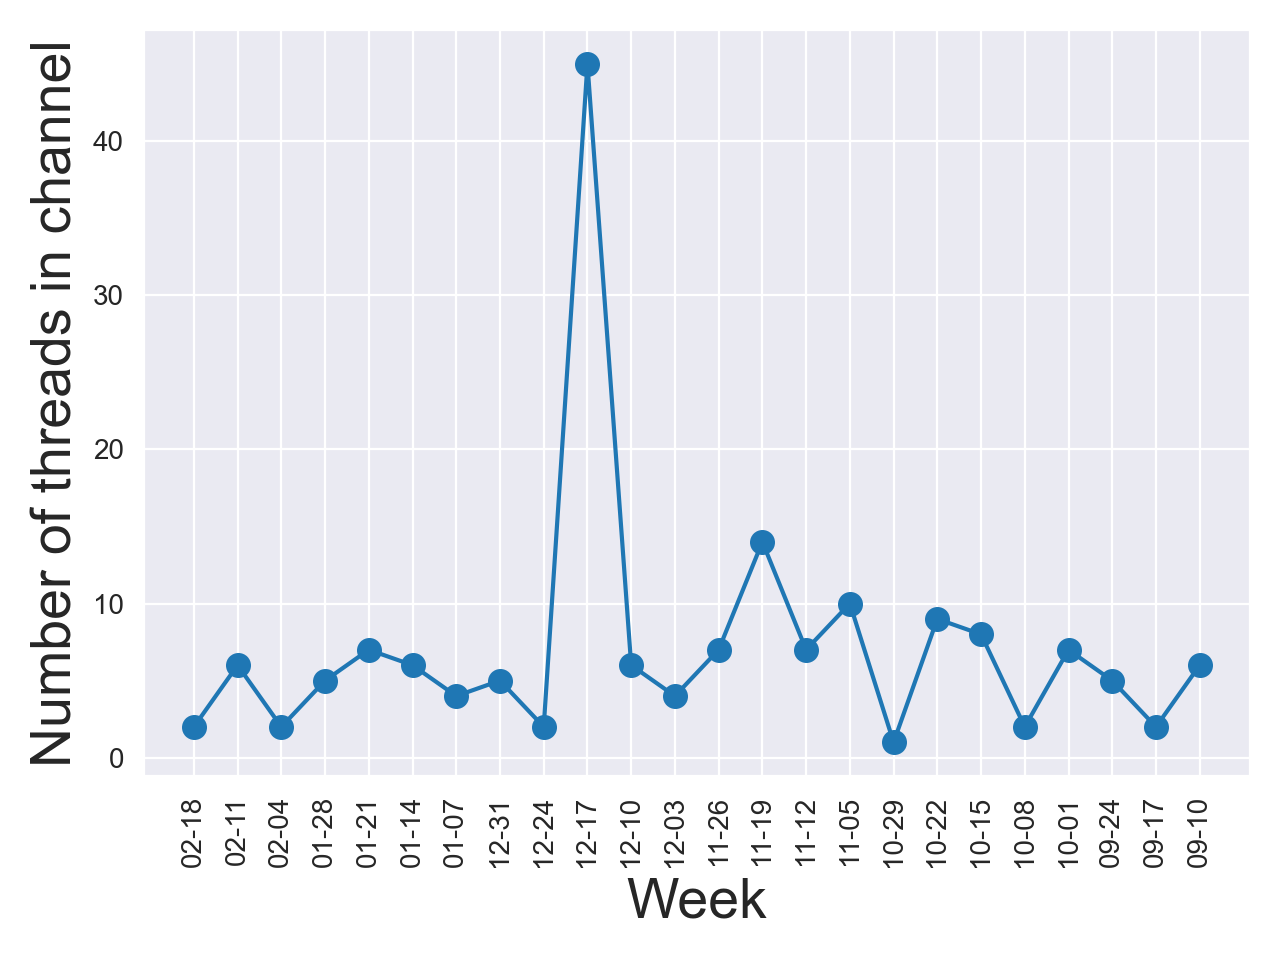
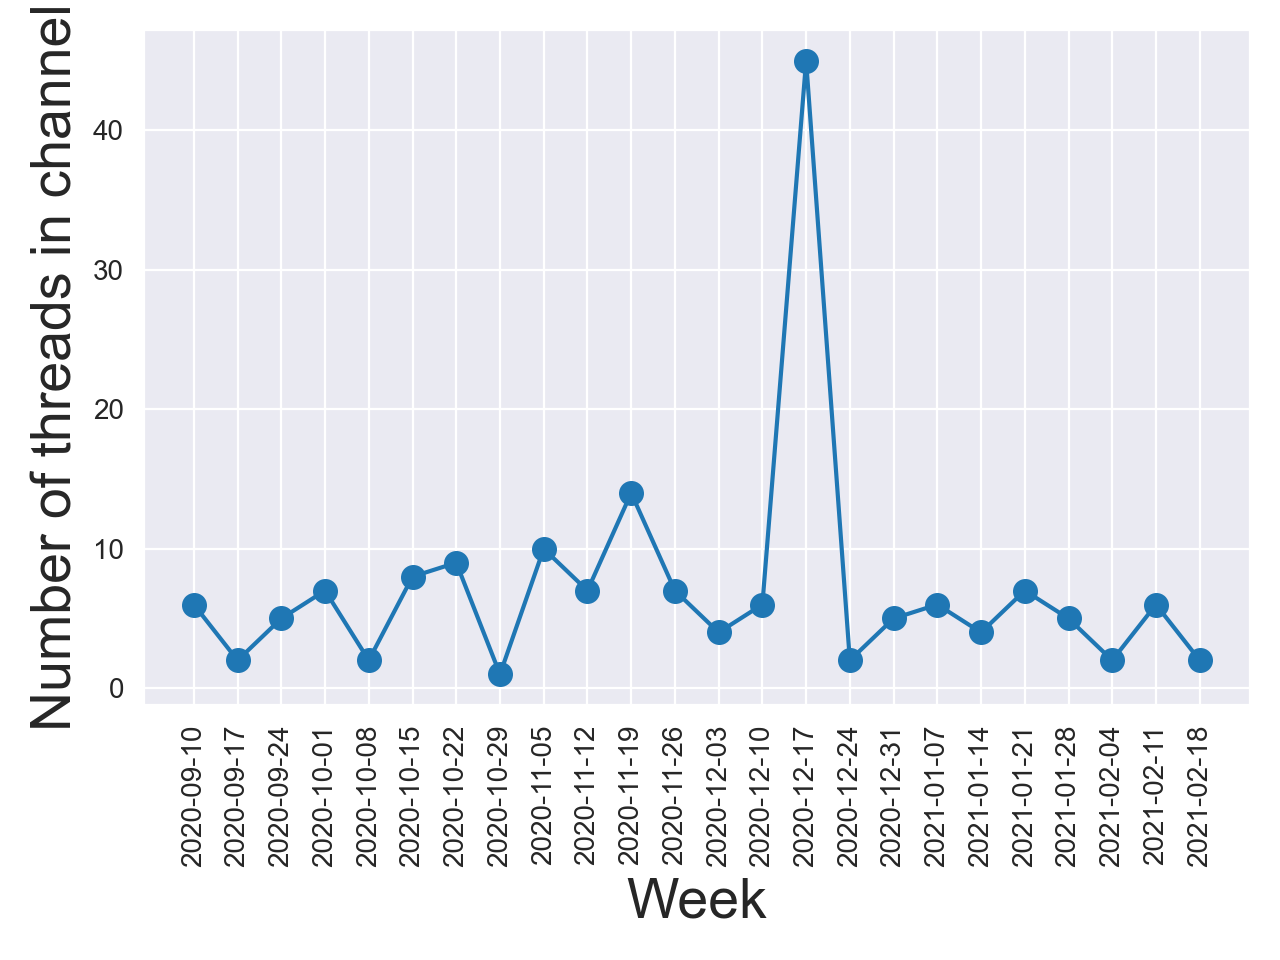
Fix label ordering

Changed region(s): [[0.125, 0.0312, 0.9375, 0.9062], [0.0, 0.0, 0.0938, 0.8125], [0.3125, 0.5625, 0.375, 0.6562]]

diff --git a/slack-analytics/get-history.py b/slack-analytics/get-history.py
@@ -99,6 +99,10 @@ def get_slack_history(auth_token, channel, num_historical_weeks, outfile="./out.
 
             print("{}: {}".format(oldest, len(messages)))
 
+            # Analyze outliers
+            #if len(messages) > 40:
+            #    pp.pprint(messages)
+
             # Advance the time barriers
             latest = oldest
             oldest = latest - seconds_in_a_week
@@ -108,20 +112,22 @@ def get_slack_history(auth_token, channel, num_historical_weeks, outfile="./out.
 # Plot Num Support Threads by Time
 def plot(csvname):
     xs = []
+    xlabels = []
     thread_counts = []
 
     with open(csvname, "r") as f:
         for line in f:
             vals = line.rstrip().split(",")
             unix_timestamp = float(vals[0])
-            x = datetime.utcfromtimestamp(unix_timestamp).strftime("%m-%d")
-            xs.append(x)
+            x = datetime.utcfromtimestamp(unix_timestamp).strftime("%Y-%m-%d")
+            xs.append(unix_timestamp)
+            xlabels.append(x)
             thread_counts.append(int(vals[1]))
 
     plt.plot(xs, thread_counts, marker="o", markersize=8)
     plt.xlabel("Week", fontsize=20)
     plt.ylabel("Number of threads in channel", fontsize=20)
-    plt.xticks(rotation = 90)
+    plt.xticks(xs, xlabels, rotation = 90)
     plt.tick_params(axis='y', which='major', labelsize=10)
     plt.tick_params(axis='y', which='minor', labelsize=10)
     plt.tick_params(axis='x', which='major', labelsize=10)
@@ -138,6 +144,6 @@ if __name__ == "__main__":
     num_historical_weeks = 24
     channel = "CV3MTNZ6U"
 
-    get_slack_history(auth_token, channel, num_historical_weeks)
+    #get_slack_history(auth_token, channel, num_historical_weeks)
     plot("./out.txt")
 
